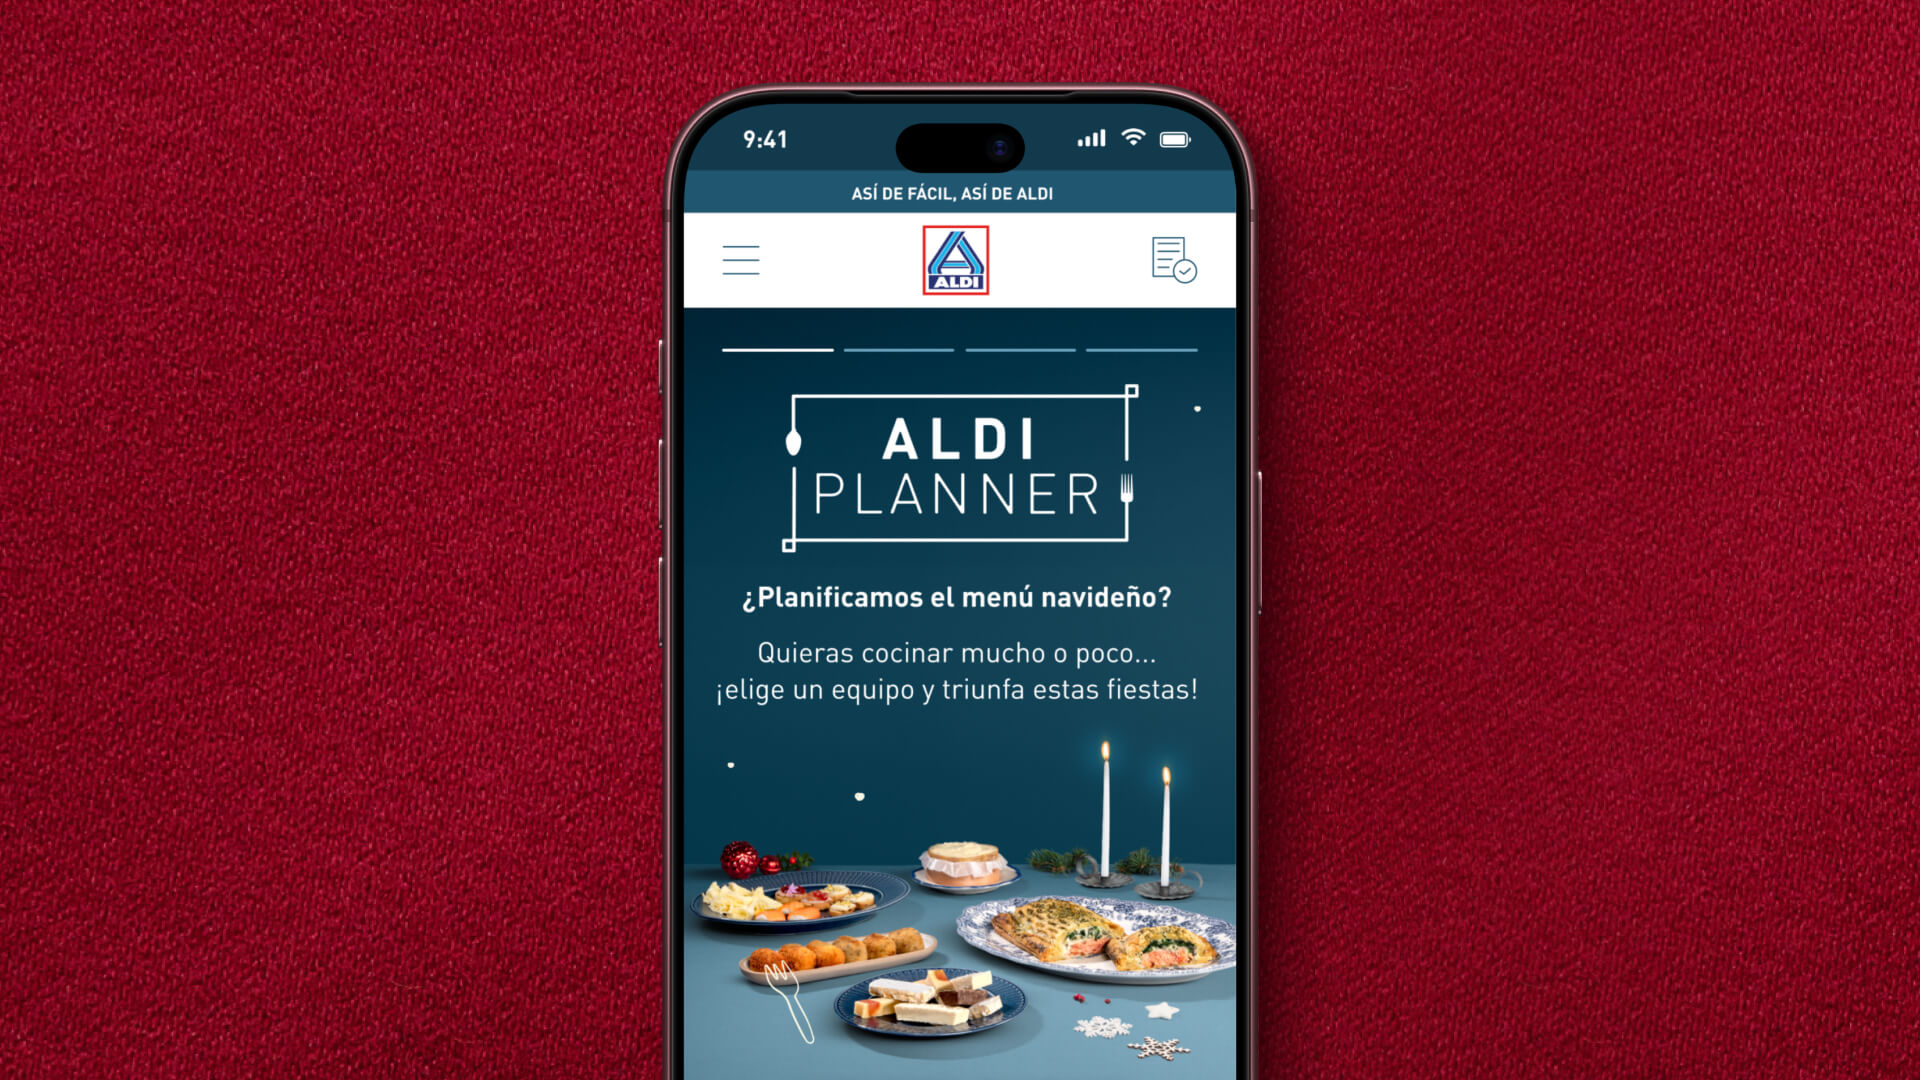
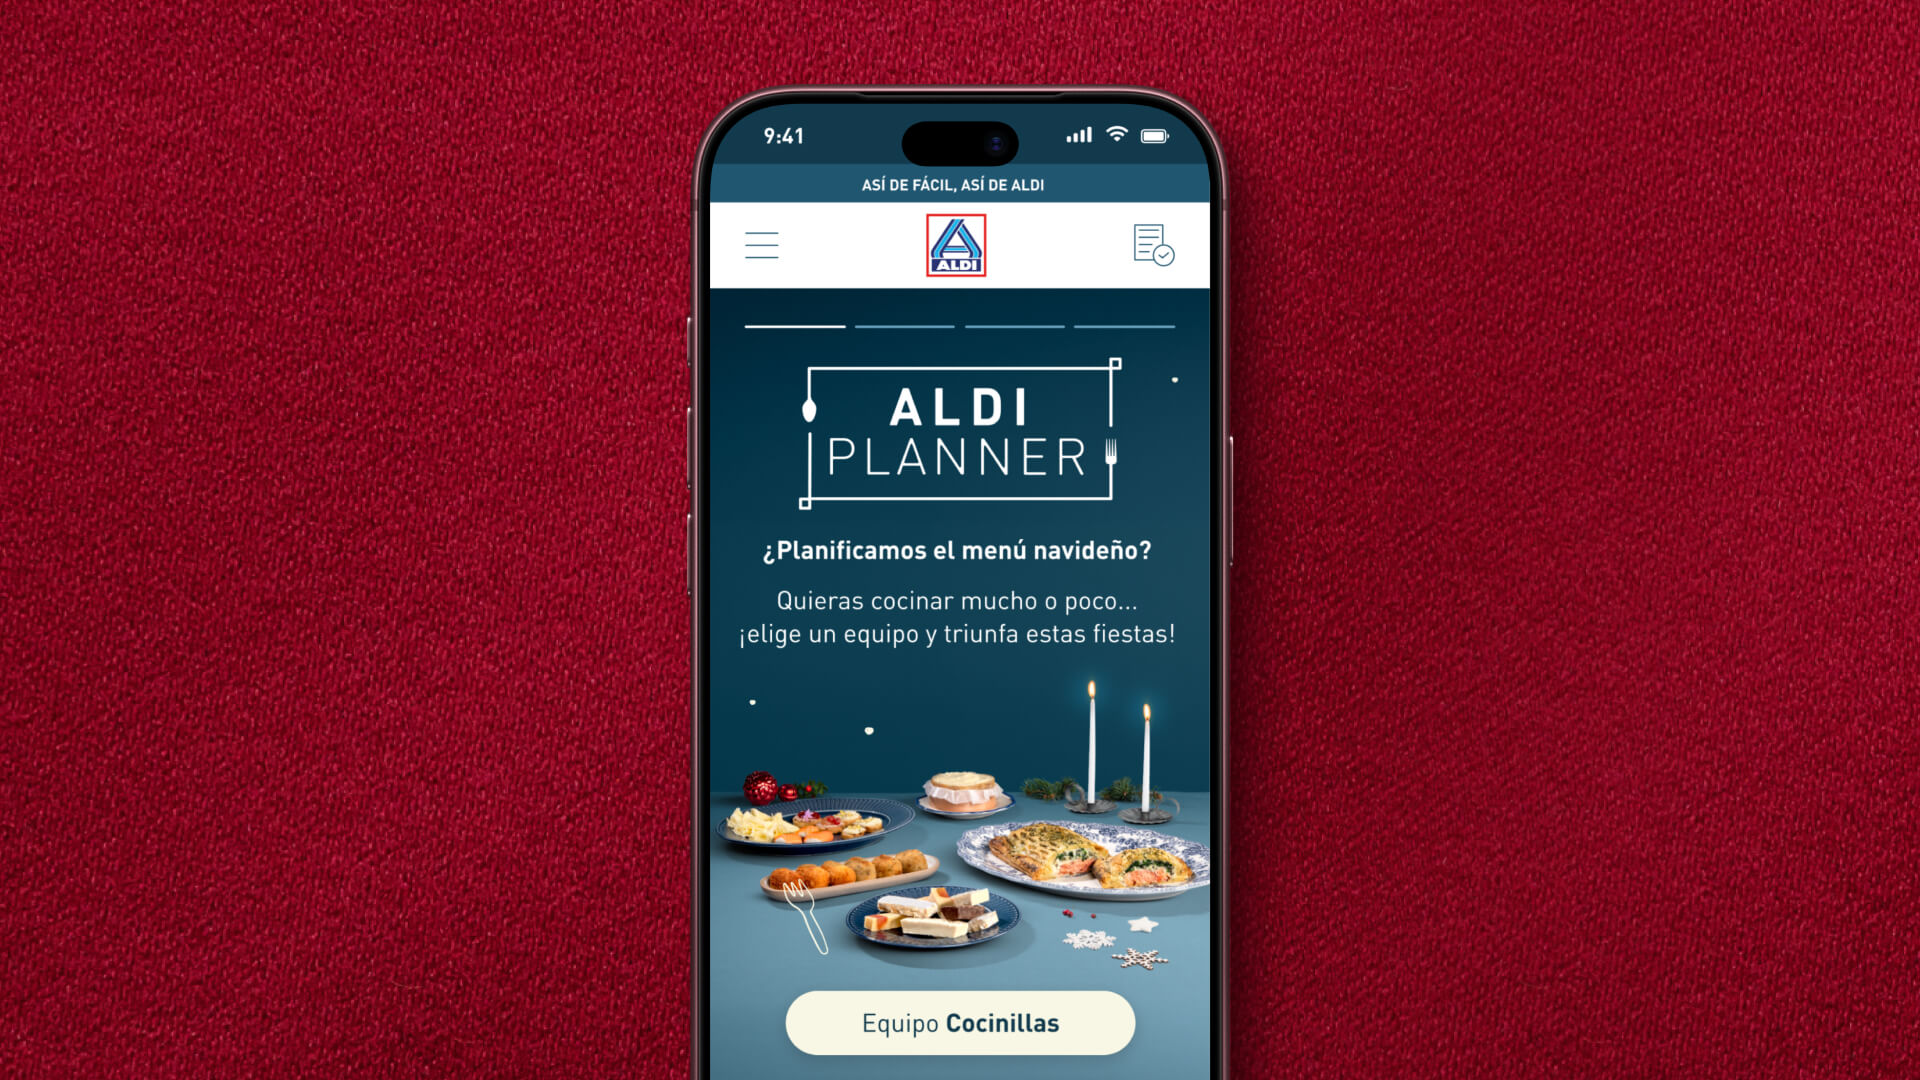
ALDI Planner: nueva imagen de portada (v3)

Changed region(s): [[0.3438, 0.0611, 0.6875, 1.0]]

diff --git a/index.html b/index.html
@@ -235,9 +235,9 @@
                                                         <div class="item-content">
                                                             <a class="item-wrap ajax-link-project" data-type="page-transition" href="aldiplanner.html"></a>
                                                             <div class="item-wrap-image">
-                                                                <img src="images/aldiplanner/portada_aldi_planner.jpg?v=2" class="item-image grid__item-img trigger-item-link" alt="ALDI Planner">
+                                                                <img src="images/aldiplanner/portada_aldi_planner.jpg?v=3" class="item-image grid__item-img trigger-item-link" alt="ALDI Planner">
                                                             </div>
-                                                            <img class="grid__item-img grid__item-img--large" src="images/aldiplanner/portada_aldi_planner.jpg?v=2" alt="" />
+                                                            <img class="grid__item-img grid__item-img--large" src="images/aldiplanner/portada_aldi_planner.jpg?v=3" alt="" />
                                                         </div>
                                                     </div>
                                                     <div class="item-caption-wrapper">

diff --git a/caixabank.html b/caixabank.html
@@ -537,7 +537,7 @@ Through a well-structured A/B testing strategy, we were able to compare user beh
 </div>
 <div class="next-project-image-wrapper">
 <div class="next-project-image">
-<div class="next-project-image-bg" style="background-image:url(images/aldiplanner/portada_aldi_planner.jpg?v=2)"></div>
+<div class="next-project-image-bg" style="background-image:url(images/aldiplanner/portada_aldi_planner.jpg?v=3)"></div>
 </div>
 </div>
 </div>
